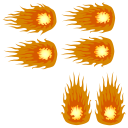
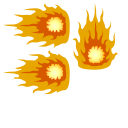
New fireball animation done.

diff --git a/client/source/playground/Missile.js b/client/source/playground/Missile.js
@@ -17,7 +17,7 @@ Missile.prototype.init = function(){
 		
 			//Set fireball animation.
 			this.currentAnimation = cc.Sprite.createWithSpriteFrameName('Fireball.0000.png');
-			var anim = AnimationManager.create('Fireball', 0, 6, 24);
+			var anim = AnimationManager.create('Fireball', 0, 3, 24);
 			this.currentAnimation.runAction(cc.RepeatForever.create(anim));
 			
 			break;
